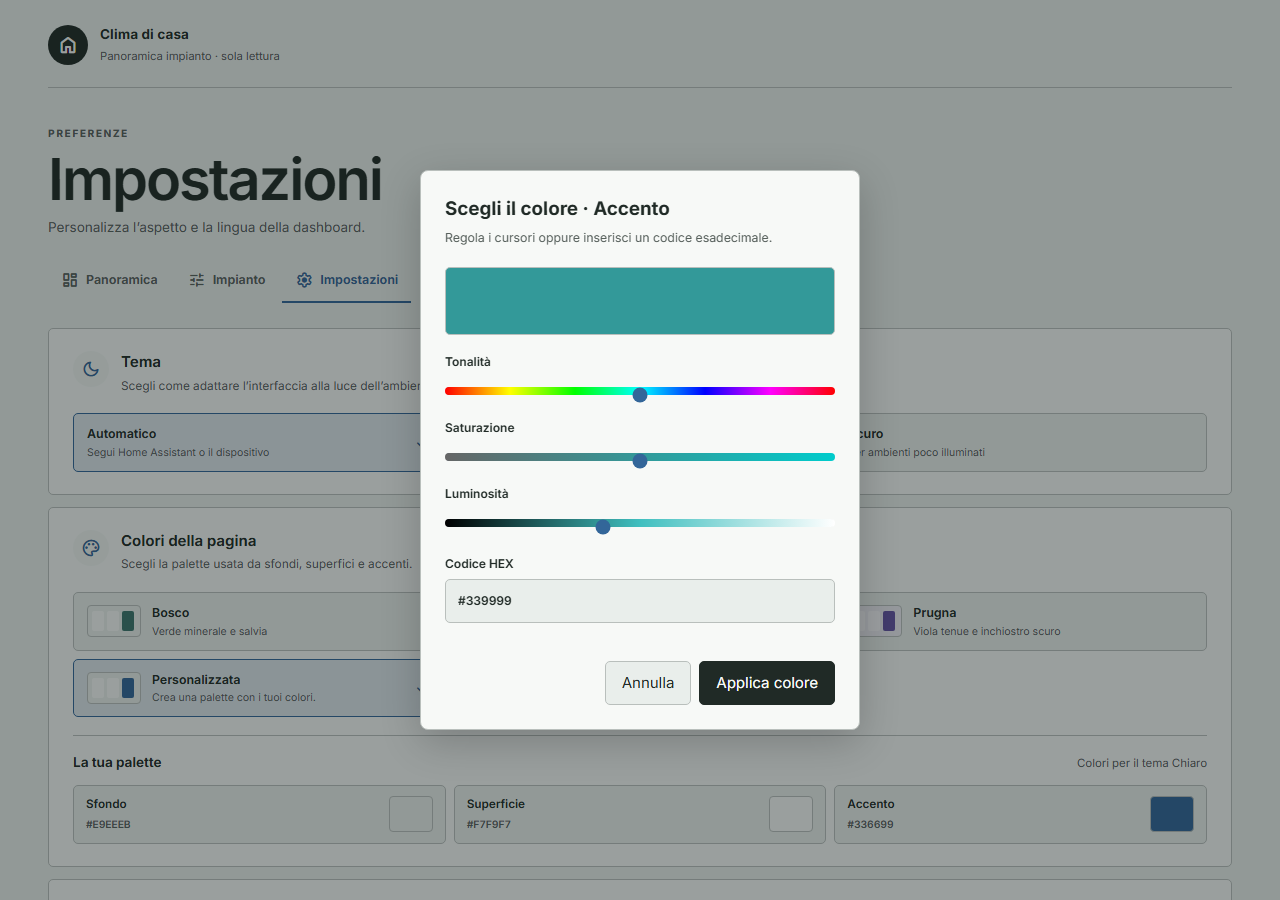
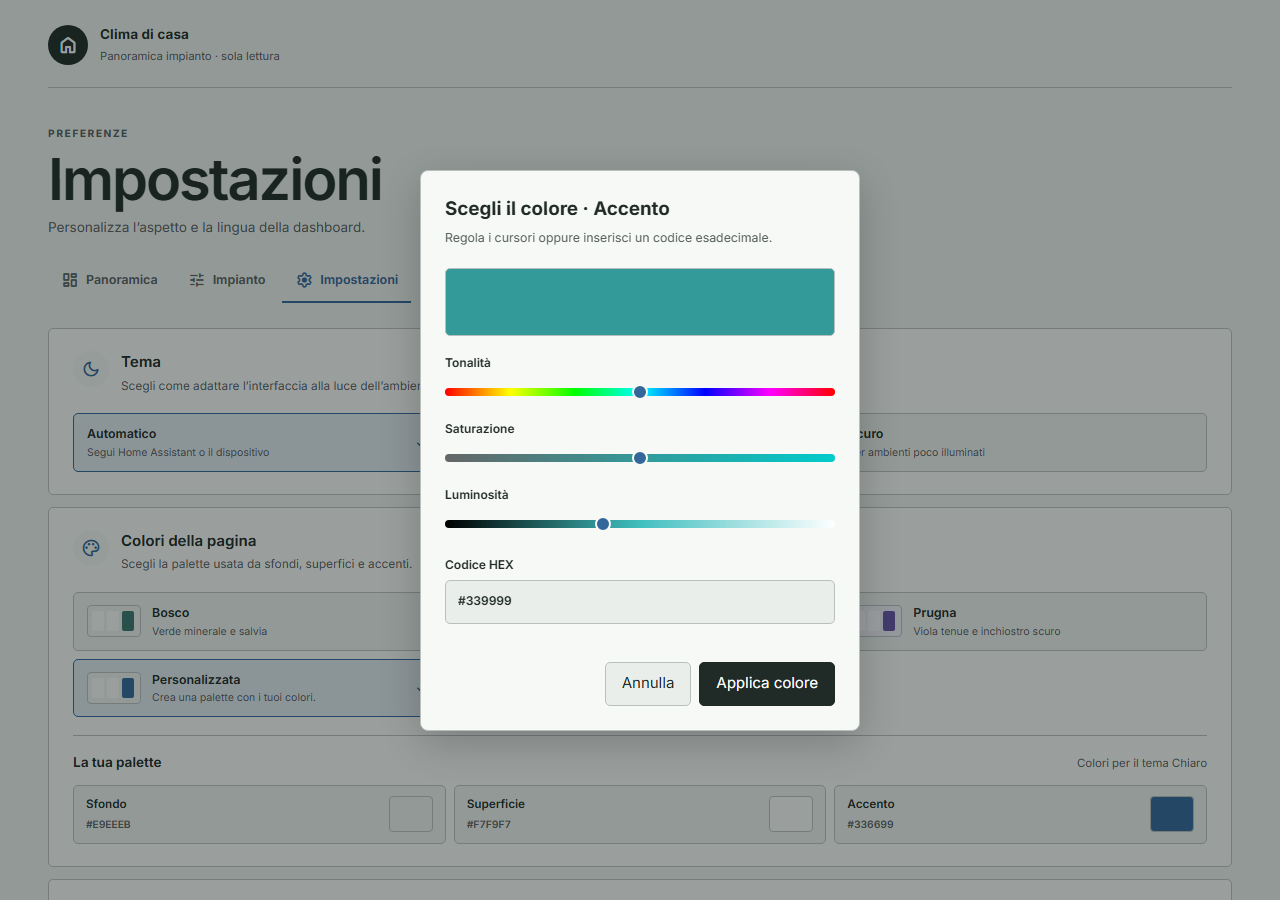
fix(dashboard): center color slider thumbs on custom tracks

diff --git a/addon/viesmann_dashboard/viesmann_dashboard/www/index.html b/addon/viesmann_dashboard/viesmann_dashboard/www/index.html
@@ -67,8 +67,10 @@
     .color-dialog{width:min(440px,calc(100% - 32px));max-height:calc(100dvh - 32px);margin:auto;padding:24px;border:1px solid var(--line);border-radius:8px;background:var(--paper);color:var(--text);box-shadow:0 12px 40px #0003;overflow:auto}
     .color-dialog::backdrop{background:#101a1866}.color-dialog h2{margin:0;font-size:1.25rem}.color-dialog-description{margin:6px 0 20px;color:var(--muted);font-size:.82rem}
     .color-preview{height:68px;margin-bottom:18px;border:1px solid var(--line);border-radius:5px;background:var(--selected-color)}
-    .color-channel{display:grid;gap:6px;margin:14px 0;font-size:.8rem;font-weight:600}.color-channel input{width:100%;height:28px;margin:0;accent-color:var(--accent);cursor:pointer}
+    .color-channel{display:grid;gap:6px;margin:14px 0;font-size:.8rem;font-weight:600}.color-channel input{appearance:none;-webkit-appearance:none;display:block;width:100%;height:28px;margin:0;padding:0;border:0;background:transparent;accent-color:var(--accent);cursor:pointer}
     .color-channel input::-webkit-slider-runnable-track{height:8px;border-radius:8px;background:var(--channel-track)}.color-channel input::-moz-range-track{height:8px;border-radius:8px;background:var(--channel-track)}
+    .color-channel input::-webkit-slider-thumb{-webkit-appearance:none;box-sizing:border-box;width:16px;height:16px;margin-top:-4px;border:2px solid var(--paper);border-radius:50%;background:var(--accent)}
+    .color-channel input::-moz-range-thumb{box-sizing:border-box;width:16px;height:16px;border:2px solid var(--paper);border-radius:50%;background:var(--accent)}
     .color-hex{display:grid;gap:6px;margin-top:18px;font-size:.8rem;font-weight:600}.color-hex input{width:100%;min-height:44px;padding:8px 12px;border:1px solid var(--line);border-radius:5px;background:var(--bg);color:var(--text);font:inherit;caret-color:var(--accent)}
     .color-hex input[aria-invalid="true"]{border-color:var(--danger)}.color-error{min-height:1.5em;margin:5px 0 16px;color:var(--danger);font-size:.76rem}
     .color-dialog-actions{display:flex;justify-content:flex-end;gap:8px}.color-dialog-actions button{min-height:44px;padding:8px 16px;border:1px solid var(--line);border-radius:5px;background:var(--bg);color:var(--text);cursor:pointer}.color-dialog-actions .color-apply{background:var(--text);color:var(--paper);border-color:var(--text)}

diff --git a/docs/issue-24/README.md b/docs/issue-24/README.md
@@ -20,6 +20,8 @@ The new color dialog: [desktop](after/color-dialog-desktop.png), [320px mobile](
 - `RELEASE_BASE_REF=origin/main python -m unittest discover -s tests -p 'test_*.py' -v`: 11 tests pass on Python 3.14. Release checks verify matching current-version notes, PNG sizes, and version/changelog changes relative to the base revision, alongside existing backend regressions.
 - `git diff --check`: passes.
 
+Follow-up: the color slider thumbs previously rendered about 4px below the track because the native thumb retained its default geometry against an 8px custom track. Explicit 16px thumbs replace native geometry, with separate WebKit and Firefox styling. Screenshot-pixel regression checks failed before the fix and pass afterward for all three color sliders on desktop and 320px mobile; dialog evidence above has been refreshed. Actual Safari/iOS remains part of final release validation.
+
 The icon was generated with ImageGen and packaged as 128px and 256px PNGs. Home Assistant metadata follows its official [presentation](https://developers.home-assistant.io/docs/apps/presentation/) and [configuration](https://contributors.home-assistant.io/apps/reference/configuration/) contracts.
 
 Docker is unavailable locally; container build remains a CI check. CI is not awaited. Home Assistant Supervisor behavior and physical PC/Mac/iOS checks remain in the single [final release validation](../../addon/viesmann_dashboard/DOCS.md#final-release-validation).

diff --git a/addon/viesmann_dashboard/CHANGELOG.md b/addon/viesmann_dashboard/CHANGELOG.md
@@ -5,6 +5,7 @@
 - Aggiunta un'icona a termometro per l'app installata e per la barra laterale di Home Assistant.
 - Aggiunto il pulsante «Torna alla panoramica» nelle viste delle stanze.
 - Sostituito il selettore colori di sistema con un dialog interno: tonalità, saturazione, luminosità e codice HEX, con Applica e Annulla.
+- Centrati i pallini dei cursori sulle rispettive barre dei colori.
 - Allineata l'intestazione Impianto alle altre pagine con l'etichetta «Dettaglio».
 - Aggiunti feedback rapidi ai pulsanti, alle preferenze e alle anteprime dei valori, rispettando il movimento ridotto.
 - Reso disponibile questo changelog in Home Assistant e aggiunti controlli automatici per richiedere versione e note aggiornate nelle release future.
